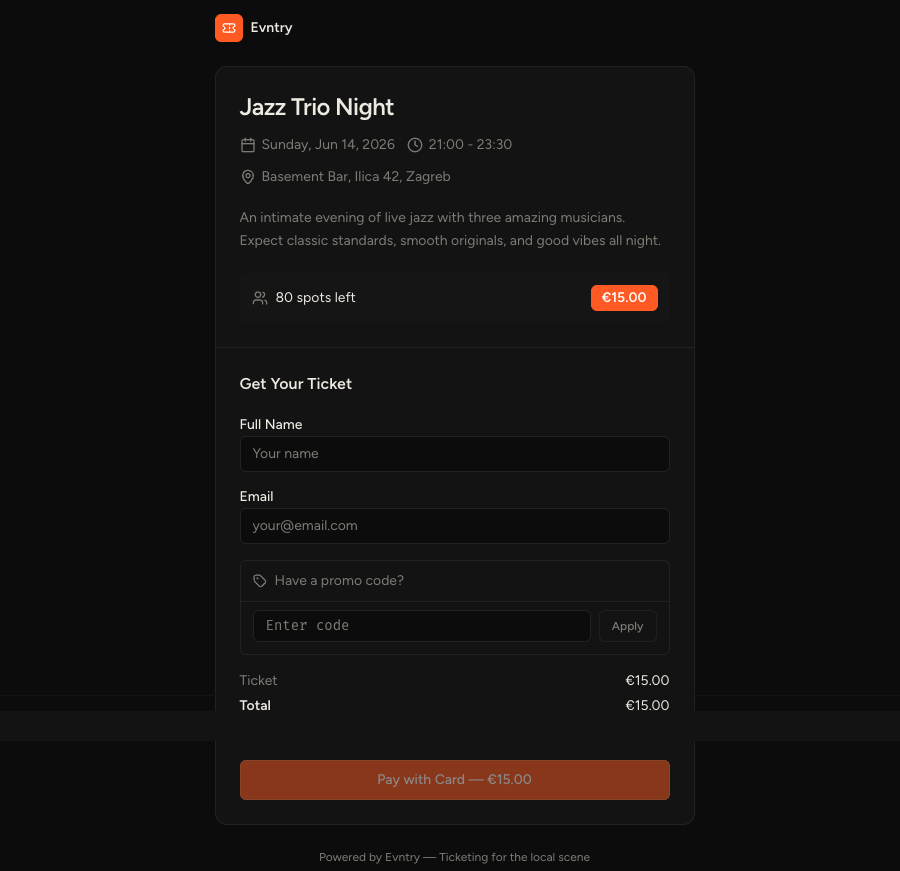
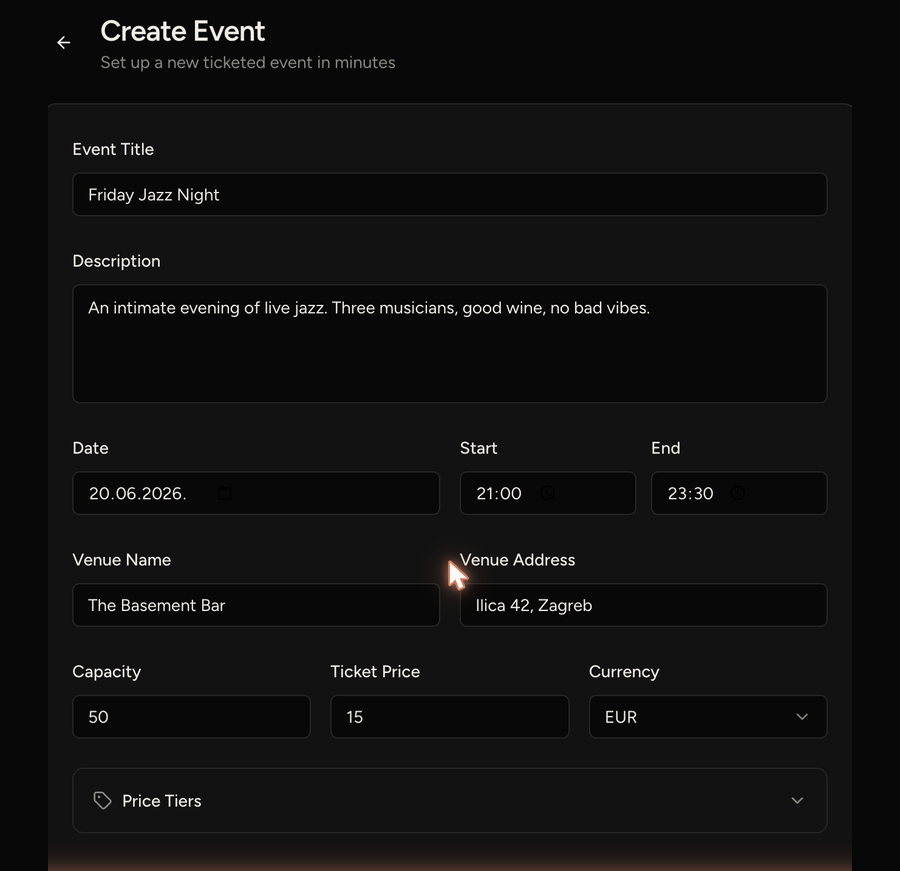
Replace hero screenshot with event creation screen
Shows the venue owner experience (Create Event form) instead of the
fan ticket page — which is already linked via "See what a ticket page
looks like →" on the left. Now the two sides tell different stories:
left = fan journey, right = how quick setup is for the organizer.

diff --git a/index.html b/index.html
@@ -27,7 +27,7 @@
 <meta name="twitter:description" content="Simple ticketing for independent venue owners. Set up an event in minutes, sell tickets with zero fees to fans, and scan the door from your phone.">
 <meta name="twitter:image" content="https://evntry.app/og-image.png">
 <title>Evntry — Ticketing for local venues</title>
-<link rel="preload" as="image" href="app-screenshot-card.png?v=2">
+<link rel="preload" as="image" href="app-screenshot-card.png?v=3">
 <link rel="icon" type="image/svg+xml" href="/favicon.svg">
 <link rel="apple-touch-icon" href="/favicon.svg">
 <link rel="preconnect" href="https://fonts.googleapis.com">
@@ -842,7 +842,7 @@
   </div>
 
   <div class="app-preview">
-    <img src="app-screenshot-card.png?v=2" alt="Evntry fan ticket page — Jazz Trio Night" class="app-preview-img" fetchpriority="high">
+    <img src="app-screenshot-card.png?v=3" alt="Evntry event creation form — set up an event in minutes" class="app-preview-img" fetchpriority="high">
   </div>
 </section>
 